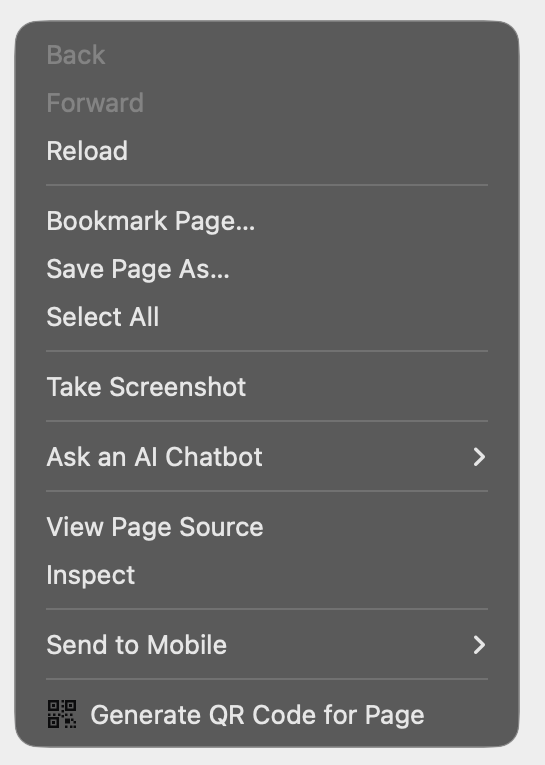
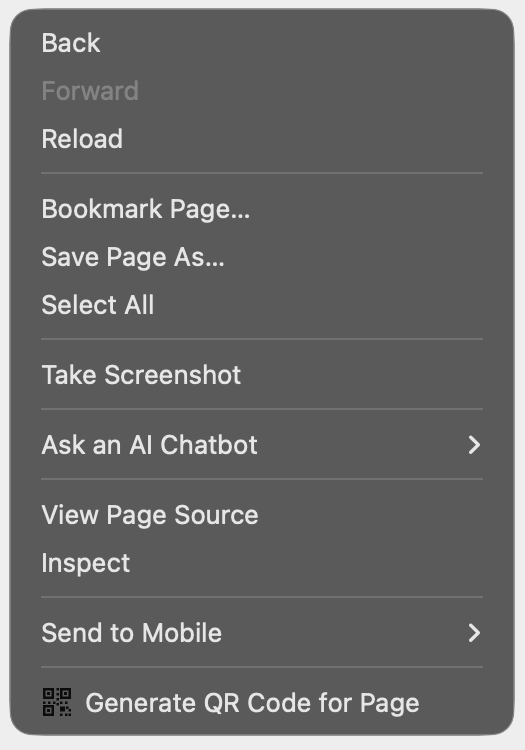
Rewrite the README around what 1.0.1 actually does
The old text described the extension at 1.0.0. Now leads with the two
differentiators — URL cleaning and typed selections, including that
detection is deliberately reluctant — and adds sections for settings
and the release commands. Test counts are not stated, since they drift.

All six screenshots recaptured on both platforms: the old set showed
text-labelled buttons and the pre-glyph Android popup.

diff --git a/README.md b/README.md
@@ -1,7 +1,8 @@
 # Clean QR for Firefox
 
-Generates a QR code for the current page, a link, an image, or selected text. Runs
-entirely offline — nothing is ever sent to a server.
+Generates a QR code for the current page, a link, an image, or selected text — then
+strips the tracking parameters out of it first. Runs entirely offline; nothing is ever
+sent to a server.
 
 Works on Firefox desktop (macOS, Windows, Linux) and Firefox for Android.
 
@@ -11,7 +12,7 @@ Works on Firefox desktop (macOS, Windows, Linux) and Firefox for Android.
 
 | Popup | Context menu |
 | --- | --- |
-| <img src="docs/screenshots/desktop-popup.png" alt="Popup showing a QR code for the current page" width="360"> | <img src="docs/screenshots/desktop-menu.png" alt="Right-click menu with a Generate QR Code for Page entry" width="300"> |
+| <img src="docs/screenshots/desktop-popup.png" alt="Popup showing a QR code, the cleaned URL, and three icon buttons" width="340"> | <img src="docs/screenshots/desktop-menu.png" alt="Right-click menu with a Generate QR Code for Page entry" width="290"> |
 
 <img src="docs/screenshots/desktop-options.png" alt="Settings, shown in the Firefox Add-ons Manager" width="660">
 
@@ -19,53 +20,91 @@ Works on Firefox desktop (macOS, Windows, Linux) and Firefox for Android.
 
 | Popup | Browser menu | Settings |
 | --- | --- | --- |
-| <img src="docs/screenshots/android-popup.png" alt="Full-window QR code overlay on Android" width="220"> | <img src="docs/screenshots/android-menu.png" alt="Android browser menu with the extension listed" width="220"> | <img src="docs/screenshots/android-options.png" alt="Settings on Android" width="220"> |
+| <img src="docs/screenshots/android-popup.png" alt="Full-window QR code overlay on Android with four action buttons" width="220"> | <img src="docs/screenshots/android-menu.png" alt="Android browser menu with the extension listed" width="220"> | <img src="docs/screenshots/android-options.png" alt="Settings on Android" width="220"> |
 
-The popup is one shared UI: a 360px panel anchored to the toolbar button on desktop,
-and a full-window overlay on Android, where Web Share replaces the desktop clipboard
-actions. In every shot the encoded URL is `https://example.com/?id=42` — the page was
-loaded with a `utm_source` parameter that tracking-stripping removed before encoding.
+One shared UI: a 360px panel anchored to the toolbar button on desktop, a full-window
+overlay on Android. Android gains a Share button because Fenix ships the Web Share API;
+desktop Firefox does not, so it is simply absent rather than disabled. In every shot the
+page was loaded with `?utm_source=newsletter&id=42` and the code encodes
+`https://example.com/?id=42`.
+
+## What it does
+
+**Cleans the URL first.** `utm_*`, `fbclid`, `gclid`, `mc_*` and around forty others are
+removed before encoding, so the link that opens on the other device is the one you meant
+to share. A shorter URL also produces a sparser code, which scans more easily.
+
+**Types what you selected.** Select a phone number, email address or coordinate pair and
+the code becomes `tel:`, `mailto:` or `geo:` — something the scanning phone offers to act
+on rather than inert text. Detection is deliberately reluctant: prices, dates, version
+numbers, ISBNs and part numbers are all left alone, because a wrong guess is worse than
+plain text. The raw words are always offered alongside, never replaced.
+
+**Links to the passage, not just the page.** Selecting text also offers a
+[text fragment](https://developer.mozilla.org/en-US/docs/Web/URI/Reference/Fragment/Text_fragments)
+link that scrolls the reader to that passage. Long selections encode only their first and
+last few words, which matches the same text while keeping the code far sparser.
+
+**Keeps the code scannable.** Error correction is lowered automatically rather than
+letting a long URL produce a dense code a phone camera struggles with off a screen — and
+the footer says so instead of changing your setting silently.
 
 ## Install for development
 
 ```bash
 npm install
-npm start          # launches Firefox with the extension loaded
+npm start                            # Firefox with the extension loaded
 npm run start:android -- --adb-device <id>
-npm run lint       # web-ext lint
-npm test           # unit tests for encoding and URL handling
+npm test                             # unit tests, no browser needed
+npm run lint                         # web-ext lint
+npm run icons                        # regenerate icon assets (needs librsvg)
 ```
 
-## How it works
+## Surfaces
 
-| Surface | Desktop | Android |
+| | Desktop | Android |
 | --- | --- | --- |
 | Toolbar button + popup | yes | yes |
-| Context menu (page/link/image/selection) | yes | no |
+| Context menu (page/link/image/selection/frame) | yes | no — Fenix has no `menus` API |
 | Windows/Linux shortcut (`Alt+Shift+Q`) | yes | no |
 | macOS shortcut (`Option+Shift+Q`, ⌥⇧Q) | yes | no |
-| Share to the OS share sheet | no | yes |
+| Share to the OS share sheet | no — no Web Share | yes |
+| Copy image to clipboard | yes | yes |
+
+Platform differences are resolved by feature detection in `src/lib/caps.js`, not by
+user-agent sniffing, so the UI adapts as Firefox for Android gains APIs.
 
 ## Permissions
 
 | Permission | Used for |
 | --- | --- |
-| `activeTab` | Reading the current tab's URL when you invoke the extension |
-| `menus` | The right-click entries for pages, links, images and selections |
+| `activeTab` | Reading the current tab's URL and title when you invoke the extension |
+| `menus` | The right-click entries |
 | `storage` | Persisting your settings |
-| `clipboardWrite` | Copy image / Copy URL, and auto-copy on open |
+| `clipboardWrite` | Copy image, copy URL, copy Markdown, and auto-copy on open |
 
-`clipboardWrite` is the only one that prompts. It is required rather than optional:
-clipboard writes from an extension page need transient user activation without it, so
-auto-copy-on-open — which fires with no click behind it — silently fails.
+`clipboardWrite` is the only one that prompts on install. It is required rather than
+optional: clipboard writes from an extension page need transient user activation without
+it, so auto-copy-on-open — which fires with no click behind it — would silently fail.
 
 Notably absent:
 
 - **`downloads`** — would add a warning, and was removed from Firefox for Android in
   Fenix 79. Saving uses an object-URL `<a download>` instead.
-- **`tabs`** — unnecessary; `activeTab` covers reading the current tab's URL in
-  response to a user gesture.
-- **host permissions** — the extension makes no network requests at all.
+- **`scripting`** and **host permissions** — nothing is ever read from the page. The
+  context menu already provides the selection and the page URL.
+- **network access** — there is none. The QR code is generated on your machine.
+
+## Settings
+
+Beyond theme, size and error correction, the options page covers which context-menu
+entries appear, which extra popup buttons are shown, how a selection is offered by
+default, text-fragment precision, extra tracking parameters of your own, whether recent
+codes are remembered, and the file-naming scheme.
+
+**Recent codes is off by default.** It records what you encoded, which is browsing history
+by another name — so it is opt-in, capped, cleared when you switch it off, and never
+written from a private window.
 
 ## Layout
 
@@ -76,41 +115,53 @@ src/
   popup/              the single UI, shared by desktop and Android
   options/            settings
   lib/
-    qr.js             encoding + automatic error-correction downgrade
-    render.js         SVG for display, canvas for export
-    target.js         URL normalization, tracking-parameter stripping
+    qr.js             encoding, error-correction downgrade, density ceilings
+    render.js         SVG for display, canvas for export, data URIs
+    target.js         URL cleaning, selection typing, text fragments
     caps.js           runtime feature detection
     theme.js          OS theme by default, explicit override
-    settings.js       defaults and storage
+    settings.js       defaults and validation
     pending.js        context-menu → popup hand-off
+    history.js        recent codes, when enabled
   vendor/qrcode.mjs   qrcode-generator 2.0.4, unmodified (MIT)
-test/                 unit tests for encoding and URL handling
+test/                 unit tests; stub-browser.js fakes the browser.* APIs
+scripts/              release tooling, not shipped in the XPI
 ```
 
 **No build step.** `qrcode-generator` 2.0.4 ships zero-dependency native ESM, so the
-extension ships as plain unbundled, unminified modules. This is deliberate: AMO
-requires full source submission and byte-exact build reproduction for any minified or
-bundled extension, and shipping readable source avoids that entirely.
+extension ships as plain unbundled, unminified modules. This is deliberate: AMO requires
+full source submission and byte-exact build reproduction for any minified or bundled
+extension, and shipping readable source avoids that entirely.
+
+The one modification is at runtime: the vendored library truncates each UTF-16 code unit
+to a single byte, so `qr.js` replaces its byte converter with `TextEncoder`. Without that,
+any non-ASCII selection encodes to mojibake.
+
+## Releasing
+
+```bash
+npm run send-for-review          # bump, submit to AMO, commit, tag, push
+npm run status:amo               # where the submitted version sits in review
+npm run release                  # signed XPI -> GitHub Release, once approved
+npm run push-listing:amo         # push amo-metadata.json to the live listing
+```
+
+Submission runs before the commit deliberately: AMO rejects for reasons that leave the
+version unused, and committing first would bury a version number that is still free.
 
 ## Theme
 
-Follows the operating system's light/dark setting by default. Settings offers
-**Auto / Light / Dark**; an explicit choice overrides the OS in both directions.
+Follows the operating system's light/dark setting by default; Settings offers **Auto /
+Light / Dark**, and an explicit choice overrides the OS in both directions. The toolbar
+icon ships in two inks so it stays legible on a dark toolbar.
 
 The QR code itself always renders dark-on-white regardless of theme — an inverted or
-low-contrast code is a well-known scanner-failure mode, so the theme is not permitted
-to reach it.
-
-## Encoding
-
-Defaults to error-correction level M. If a URL would push the code past version 12 —
-roughly where on-screen scanning from a phone starts to fail — the error-correction
-level is automatically lowered to buy back capacity, and the popup footer shows the
-change rather than making it silently.
+low-contrast code is a well-known scanner-failure mode, so the theme is not permitted to
+reach it.
 
 ## License
 
 MIT — see [`LICENSE`](LICENSE).
 
-The vendored QR library, `qrcode-generator` by Kazuhiko Arase, is separately MIT
-licensed and redistributed unmodified; its notice is at `src/vendor/LICENSE`.
+The vendored QR library, `qrcode-generator` by Kazuhiko Arase, is separately MIT licensed
+and redistributed unmodified; its notice is at `src/vendor/LICENSE`.
